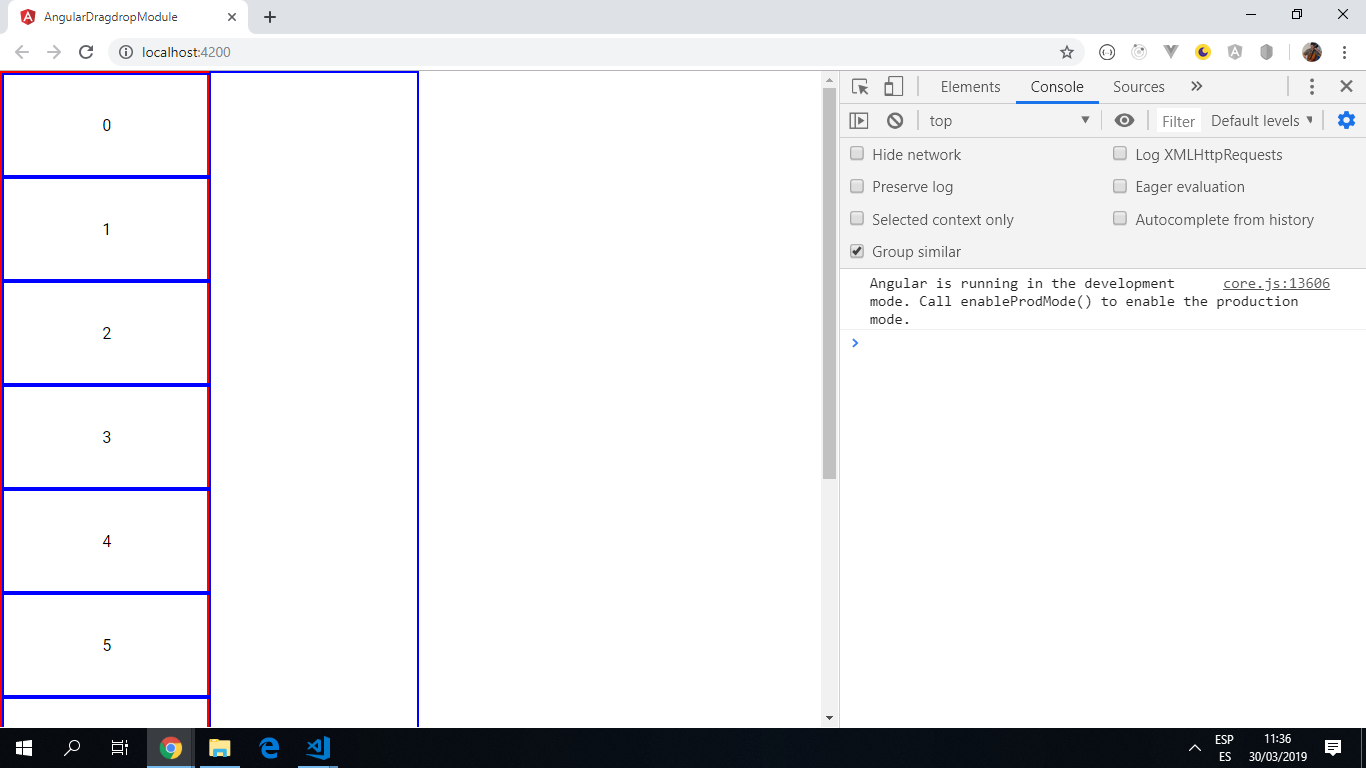
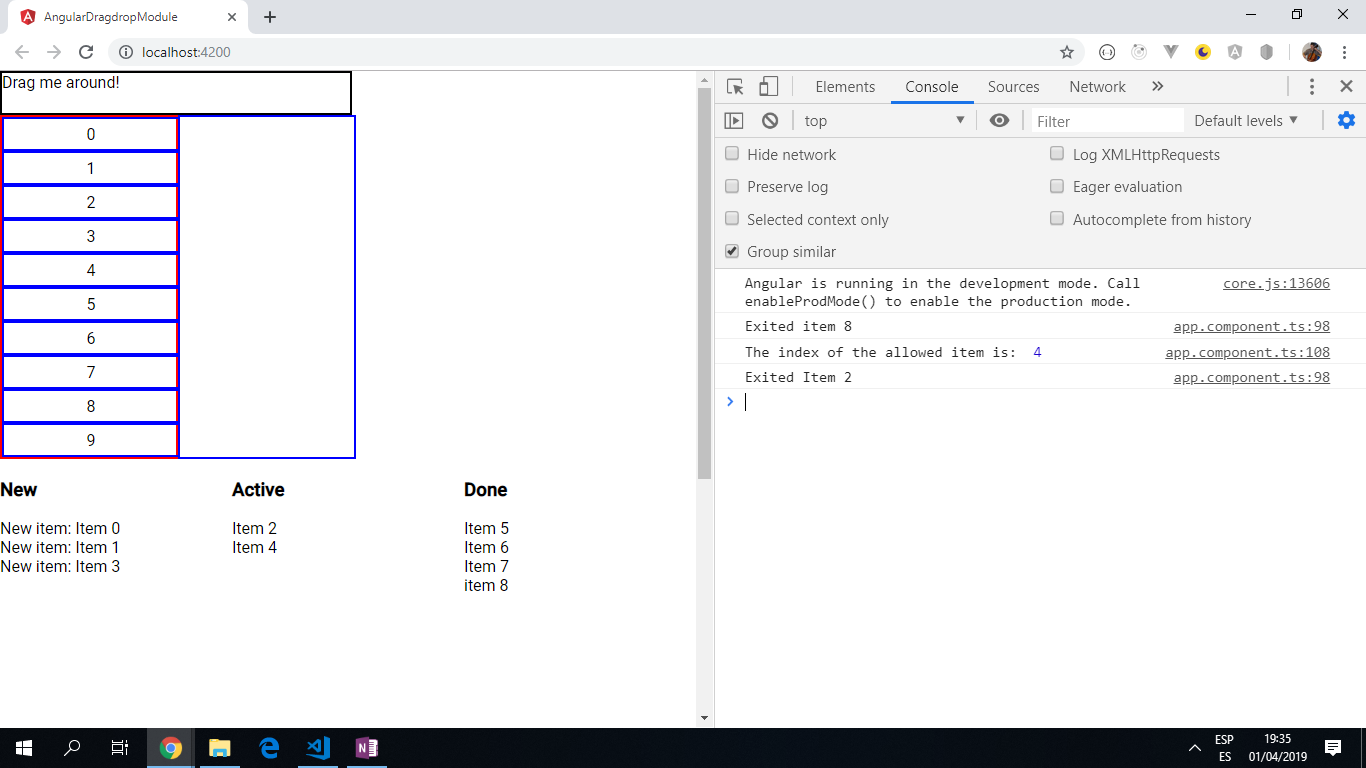
drag & drop functionality added

diff --git a/src/app/app.component.html b/src/app/app.component.html
@@ -1,40 +1,14 @@
-<div cdkDrop> 
+<div class="draw-area" cdkDrop> 
   <div class="box" cdkDrag>Drag me around!</div>
   <br>
 </div>
 
-<div class="board">
-	<div class="column">
-		<h3>New</h3>
-		<div cdkDrop #new="cdkDrop" [cdkDropData]="newItems" [cdkDropConnectedTo]="[active]" (cdkDropDropped)="dropped($event)" (cdkDropEntered)="entered($event)" (cdkDropExited)="exited($event)">
-			<div *ngFor="let item of newItems" [cdkDragData]="item" cdkDrag>
-				New item: {{ item }}
-				<div *cdkDragPreview>{{ item }}</div>
-			</div>
-		</div>
-	</div>
-
-	<div class="column">
-		 <h3>Active</h3>
-		<div cdkDrop #active="cdkDrop" [cdkDropData]="activeItems" [cdkDropConnectedTo]="[new, done]" (cdkDropDropped)="dropped($event)">
-			<div *ngFor="let item of activeItems" cdkDrag [cdkDragData]="item"> {{ item }} </div>
-		</div>
-	</div>
-
-	<div class="column">
-		<h3>Done</h3>
-		<div cdkDrop #done="cdkDrop" [cdkDropData]="doneItems" [cdkDropConnectedTo]="[active]" (cdkDropDropped)="dropped($event)" [cdkDropEnterPredication]="specialUseCase">
-			<div *ngFor="let item of doneItems" cdkDrag [cdkDragData]="item"> {{ item }} </div>
-		</div> 
-	</div>
-</div>
-
 <div style="display: flex;">
   <div cdkDropList
+    #firstList="cdkDropList"
     [cdkDropListData]="numbers"
     (cdkDropListDropped)="drop($event)"
     [cdkDropListConnectedTo]="otherList"
-    #firstList="cdkDropList"
     style="width: 25%; border: solid red 2px;">
     <!--list numbered boxed on the left-->
     <div cdkDrag *ngFor="let number of numbers" class = "item">{{ number }}</div>
@@ -48,4 +22,52 @@
     <!--list numbered boxed on the right to drag to-->
     <div cdkDrag *ngFor="let number of otherNumbers" class = "item">{{ number }}</div>
   </div>
+</div>
+
+<div class="board">
+	<div class="column">
+		<h3>New</h3>
+		<div 
+      cdkDropList
+      #new="cdkDropList" 
+      [cdkDropListData]="newItems" 
+      [cdkDropListConnectedTo]="[active]" 
+      (cdkDropListDropped)="dropped($event)" 
+      (cdkDropListEntered)="entered($event)" 
+      (cdkDropListExited)="exited($event)">
+		  <div *ngFor="let item of newItems" 
+        [cdkDragData]="item" 
+        cdkDrag>
+			  New item: {{ item }}
+			  <div *cdkDragPreview>{{ item }}</div>
+		  </div>
+	  </div>
+	</div>
+
+  <!-- items can be moved either way, to the New or Done columns -->
+	<div class="column">
+		<h3>Active</h3>
+		<div 
+      cdkDropList
+      #active="cdkDropList" 
+      [cdkDropListData]="activeItems" 
+      [cdkDropListConnectedTo]="[new, done]" 
+      (cdkDropListDropped)="dropped($event)">
+			<div *ngFor="let item of activeItems" cdkDrag [cdkDragData]="item"> {{ item }} </div>
+		</div>
+	</div>
+
+  <!-- only allows items 2,5,6,7 to be placed in the Done column -->
+	<div class="column">
+		<h3>Done</h3>
+		<div 
+      cdkDropList
+      #done="cdkDropList"
+      [cdkDropListData]="doneItems"
+      [cdkDropListConnectedTo]="[active]"
+      (cdkDropListDropped)="dropped($event)"
+      [cdkDropListEnterPredicate]="specialUseCase">
+			<div *ngFor="let item of doneItems" cdkDrag [cdkDragData]="item"> {{ item }} </div>
+		</div> 
+	</div>
 </div>

diff --git a/src/app/app.component.ts b/src/app/app.component.ts
@@ -1,11 +1,12 @@
-import { Component, EventEmitter } from '@angular/core';
+import { Component } from '@angular/core';
 import {
   CdkDragDrop,
   moveItemInArray,
   transferArrayItem,
   CdkDragEnter,
   CdkDragExit,
-  CdkDrag
+  CdkDrag,
+  CdkDropList
 } from '@angular/cdk/drag-drop';
 
 @Component({
@@ -24,6 +25,7 @@ export class AppComponent {
   'Item 1',
   'Item 2',
   'Item 3',
+  'item 8'
   ];
 
   activeItems = [
@@ -37,11 +39,11 @@ export class AppComponent {
   ];
 
   // create list of numbers
-  // constructor() {
-  //   for (let i = 0; i < 10; i++) {
-  //     this.numbers.push(i);
-  //   }
-  // }
+  constructor() {
+    for (let i = 0; i < 10; i++) {
+      this.numbers.push(i);
+    }
+  }
   // custom drop event, using the transferArrayItem and moveItemInArray methods
   // previousContainer = Container from which the item got dragged.
   // transferArrayItem is an imported utility function
@@ -64,7 +66,7 @@ export class AppComponent {
       );
     }
   }
-
+  // function to deal with drag and drop of strings
   dropped(event: CdkDragDrop<string[]>) {
     if (event.item.data === 'Try to move me') {
       console.log('this isn\'t happening today');
@@ -88,22 +90,24 @@ export class AppComponent {
   }
 
   entered(event: CdkDragEnter<string[]>) {
-    console.log('Entered', event.item.data);
+    console.log('Add to New list: ', event.item.data);
   }
 
   exited(event: CdkDragExit<string[]>) {
     console.log('Exited', event.item.data);
   }
 
-  specialUseCase(drag?: CdkDrag, drop?: CdkDrop) {
-    if (drop.data.length <= 2) {
+  // applies some restrictions on what can be moved between columns
+  specialUseCase(dragList?: CdkDrag, dropList?: CdkDropList) {
+    if (dropList.data.length <= 2) {
       console.log('Can\'t drop you because there aren\'t enough items in \'Active\'');
       return false;
     }
 
-    const allowedItems = ['Item 5', 'Item 6', 'Item 7', 'Item 2'];
-    if (allowedItems.indexOf(drag.data) === -1) {
-      console.log('Can\'t drop you because only Item 2, 5, 6 and 7 are allowed here');
+    const allowedItems = ['Item 2', 'Item 5', 'Item 6', 'Item 7', 'item 8'];
+    console.log('The index of the allowed item is: ', allowedItems.indexOf(dragList.data));
+    if (allowedItems.indexOf(dragList.data) === -1) {
+      console.log('Can\'t drop you because only Items 2, 5, 6, 7 & 8 are allowed here');
       return false;
     }
 

diff --git a/src/app/app.component.scss b/src/app/app.component.scss
@@ -1,12 +1,19 @@
 .draw-area {
-  height: 100px;
+  height: 40px;
+  width: 50%;
+  display: inline-flex;
+  border: 2px solid black;
+}
+
+.rectangle {
+  min-height: 20vh;
   width: 50%;
   display: inline-flex;
   border: 2px solid black;
 }
   
 .item {
-  height: 50px;
+  height: 30px;
   width: 100%;
   border: 2px solid blue;
   display: inline-flex;

diff --git a/src/main.ts b/src/main.ts
@@ -1,3 +1,4 @@
+import 'hammerjs';
 import { enableProdMode } from '@angular/core';
 import { platformBrowserDynamic } from '@angular/platform-browser-dynamic';
 

diff --git a/README.md b/README.md
@@ -19,6 +19,8 @@ This project uses the [@angular/cdk/drag-drop module](https://material.angular.i
 
 "The [@angular/cdk/drag-drop module](https://material.angular.io/cdk/drag-drop/overview) provides you with a way to easily and declaratively create drag-and-drop interfaces, with support for free dragging, sorting within a list, transferring items between lists, animations, touch devices, custom drag handles, previews, and placeholders, in addition to horizontal lists and locking along an axis."
 
+Important note: the version of Angular Material is important. Version 7.1.1 is used here which means cdkDrop**List** elements are used (i.e. 'cdkDrop' elements will not work).
+
 ## Screenshots
 
 ![Example screenshot](./img/dragAndDrop.png)
@@ -31,33 +33,64 @@ This project uses the [@angular/cdk/drag-drop module](https://material.angular.i
 
 ## Setup
 
-Run `ng serve` for a dev server. Navigate to `http://localhost:4200/`. The app will automatically reload if you change any of the source files.
+* Run `ng serve` for a dev server. Navigate to `http://localhost:4200/`. The app will automatically reload if you change any of the source files.
 
-Run `ng build` to build the project. The build artifacts will be stored in the `dist/` directory. Use the `--prod` flag for a production build.
+* Run `ng build` to build the project. The build artifacts will be stored in the `dist/` directory. Use the `--prod` flag for a production build.
 
-Run `ng test` to execute the unit tests via [Karma](https://karma-runner.github.io).
+* Run `ng test` to execute the unit tests via [Karma](https://karma-runner.github.io).
 
-Run `ng e2e` to execute the end-to-end tests via [Protractor](http://www.protractortest.org/).
+* Run `ng e2e` to execute the end-to-end tests via [Protractor](http://www.protractortest.org/).
 
 ## Code Examples
 
+* Function to move numbered blocks from 1 list to another.
+
+```typescript
+  drop(event: CdkDragDrop<number[]>) {
+    console.log(event.previousContainer.data); // initially returns array (10) [0, 1, 2, 3, 4, 5, 6, 7, 8, 9]
+    console.log(event.container.data); // initially returns []
+
+      if (event.previousContainer !== event.container) { // check to see if moved across lists
+      transferArrayItem(
+        event.previousContainer.data,
+        event.container.data,
+        event.previousIndex,
+        event.currentIndex
+      );
+    } else { // move within the same array and change index
+      moveItemInArray(
+        this.numbers,
+        event.previousIndex,
+        event.currentIndex
+      );
+    }
+  }
+
+```
+
 ## Features
 
-* Drag and drop functionality.
+* Drag and drop functionality - from one list to the other (with certain restrictions - e.g. you cannot move an active item back to the new items list).
+
+* Items can be rearranged in their lists.
+
+* Transitions used between lists
 
 ## Status & To-Do List
 
-* Status: Project is not working - dependencies need to be re-done.
+* Status: Working app that shows off the [@angular/cdk/drag-drop](https://material.angular.io/cdk/drag-drop/overview) module.
 
-* To-Do:
+* To-Do: add functionality.
 
 ## Inspiration
 
-* Project inspired by Youtube tutorial: [Drag and Drop with the Angular CDK - What's New in v7](https://www.youtube.com/watch?v=t1CrWLGxQPk).
+* [Youtube tutorial: Drag and Drop with the Angular CDK - What's New in v7](https://www.youtube.com/watch?v=t1CrWLGxQPk).
 
-*[Tim Deschryver's Exploring Drag and Drop with the new Angular Material CDK](https://blog.angularindepth.com/exploring-drag-and-drop-with-the-angular-material-cdk-2e0237857290)
+* [Tim Deschryver's Exploring Drag and Drop with the new Angular Material CDK](https://blog.angularindepth.com/exploring-drag-and-drop-with-the-angular-material-cdk-2e0237857290)
 
 * [Nwose Lotann´s Building Interactive Lists with the new Angular 7 Drag and Drop tool](https://blog.angularindepth.com/building-interactive-lists-with-the-new-angular-7-drag-and-drop-tool-5f2402f8cb27).
+
+* [Sumit Vekariya's An Intro to Drag & Drop in Angular Using the CDK](https://alligator.io/angular/drag-drop/).
 
 ## Contact
 
